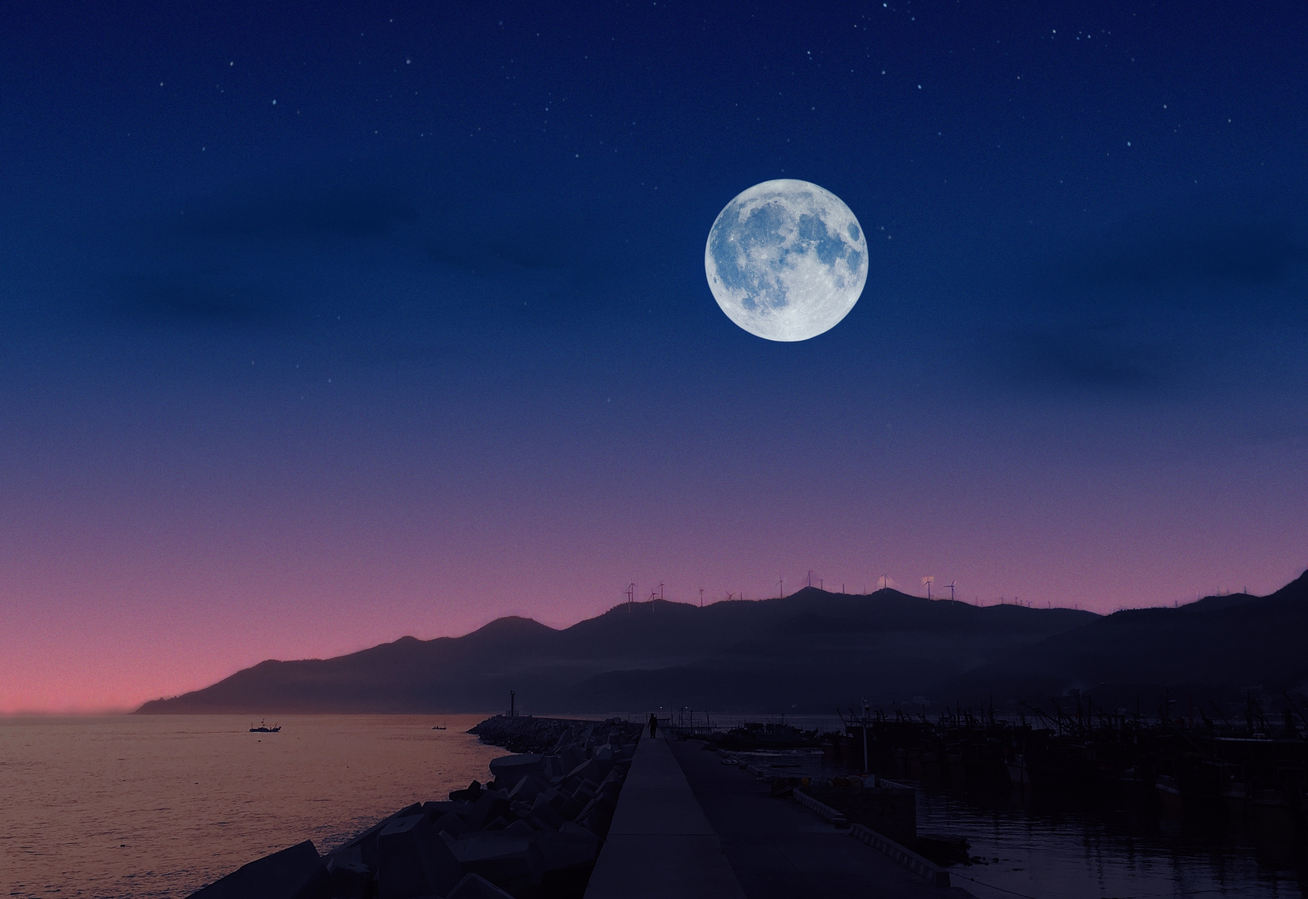
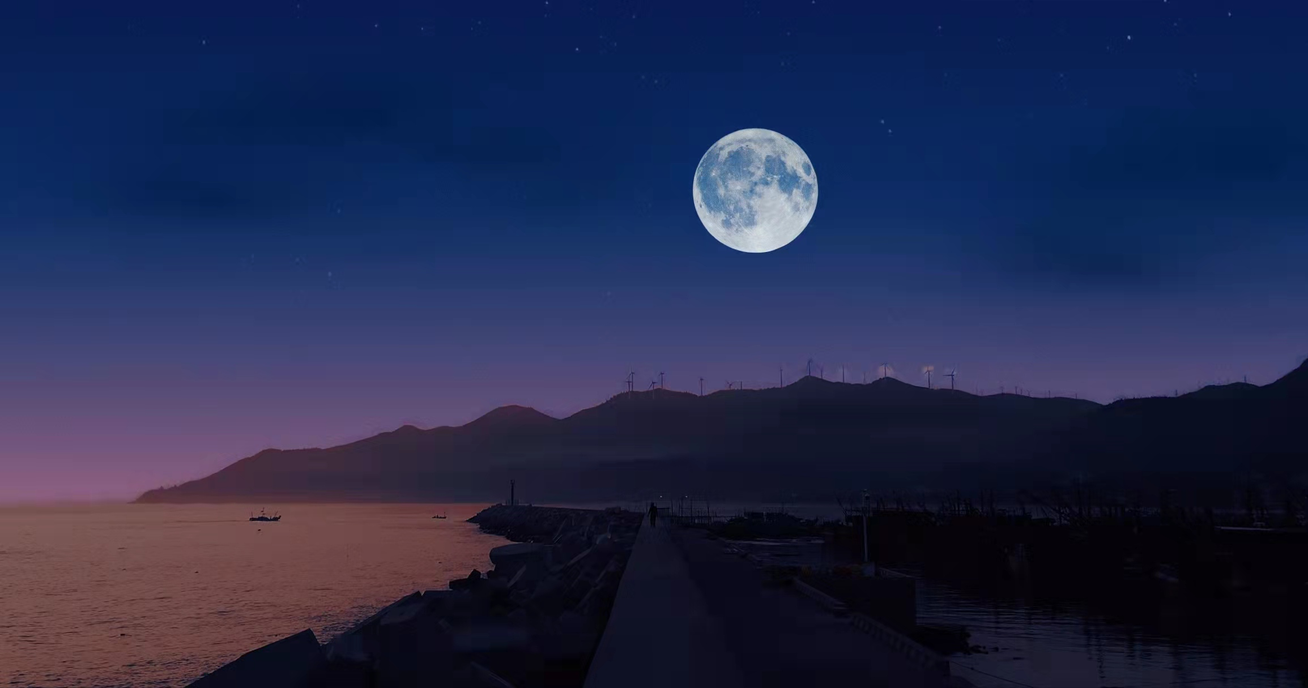
update index

diff --git a/_posts/2020-02-16-log.md b/_posts/2020-02-16-log.md
@@ -21,6 +21,10 @@ tags:
 
 [Lab](https://lzzmm.github.io/testpages/test.html)
 
+## 2021/10/26
+
+- 添加了主页背景图片
+
 ## 2021/10/23
 
 - 使用 $\LaTeX$ 的 $\left[\right]$ 的时候记得使用 `\left[\right]`
